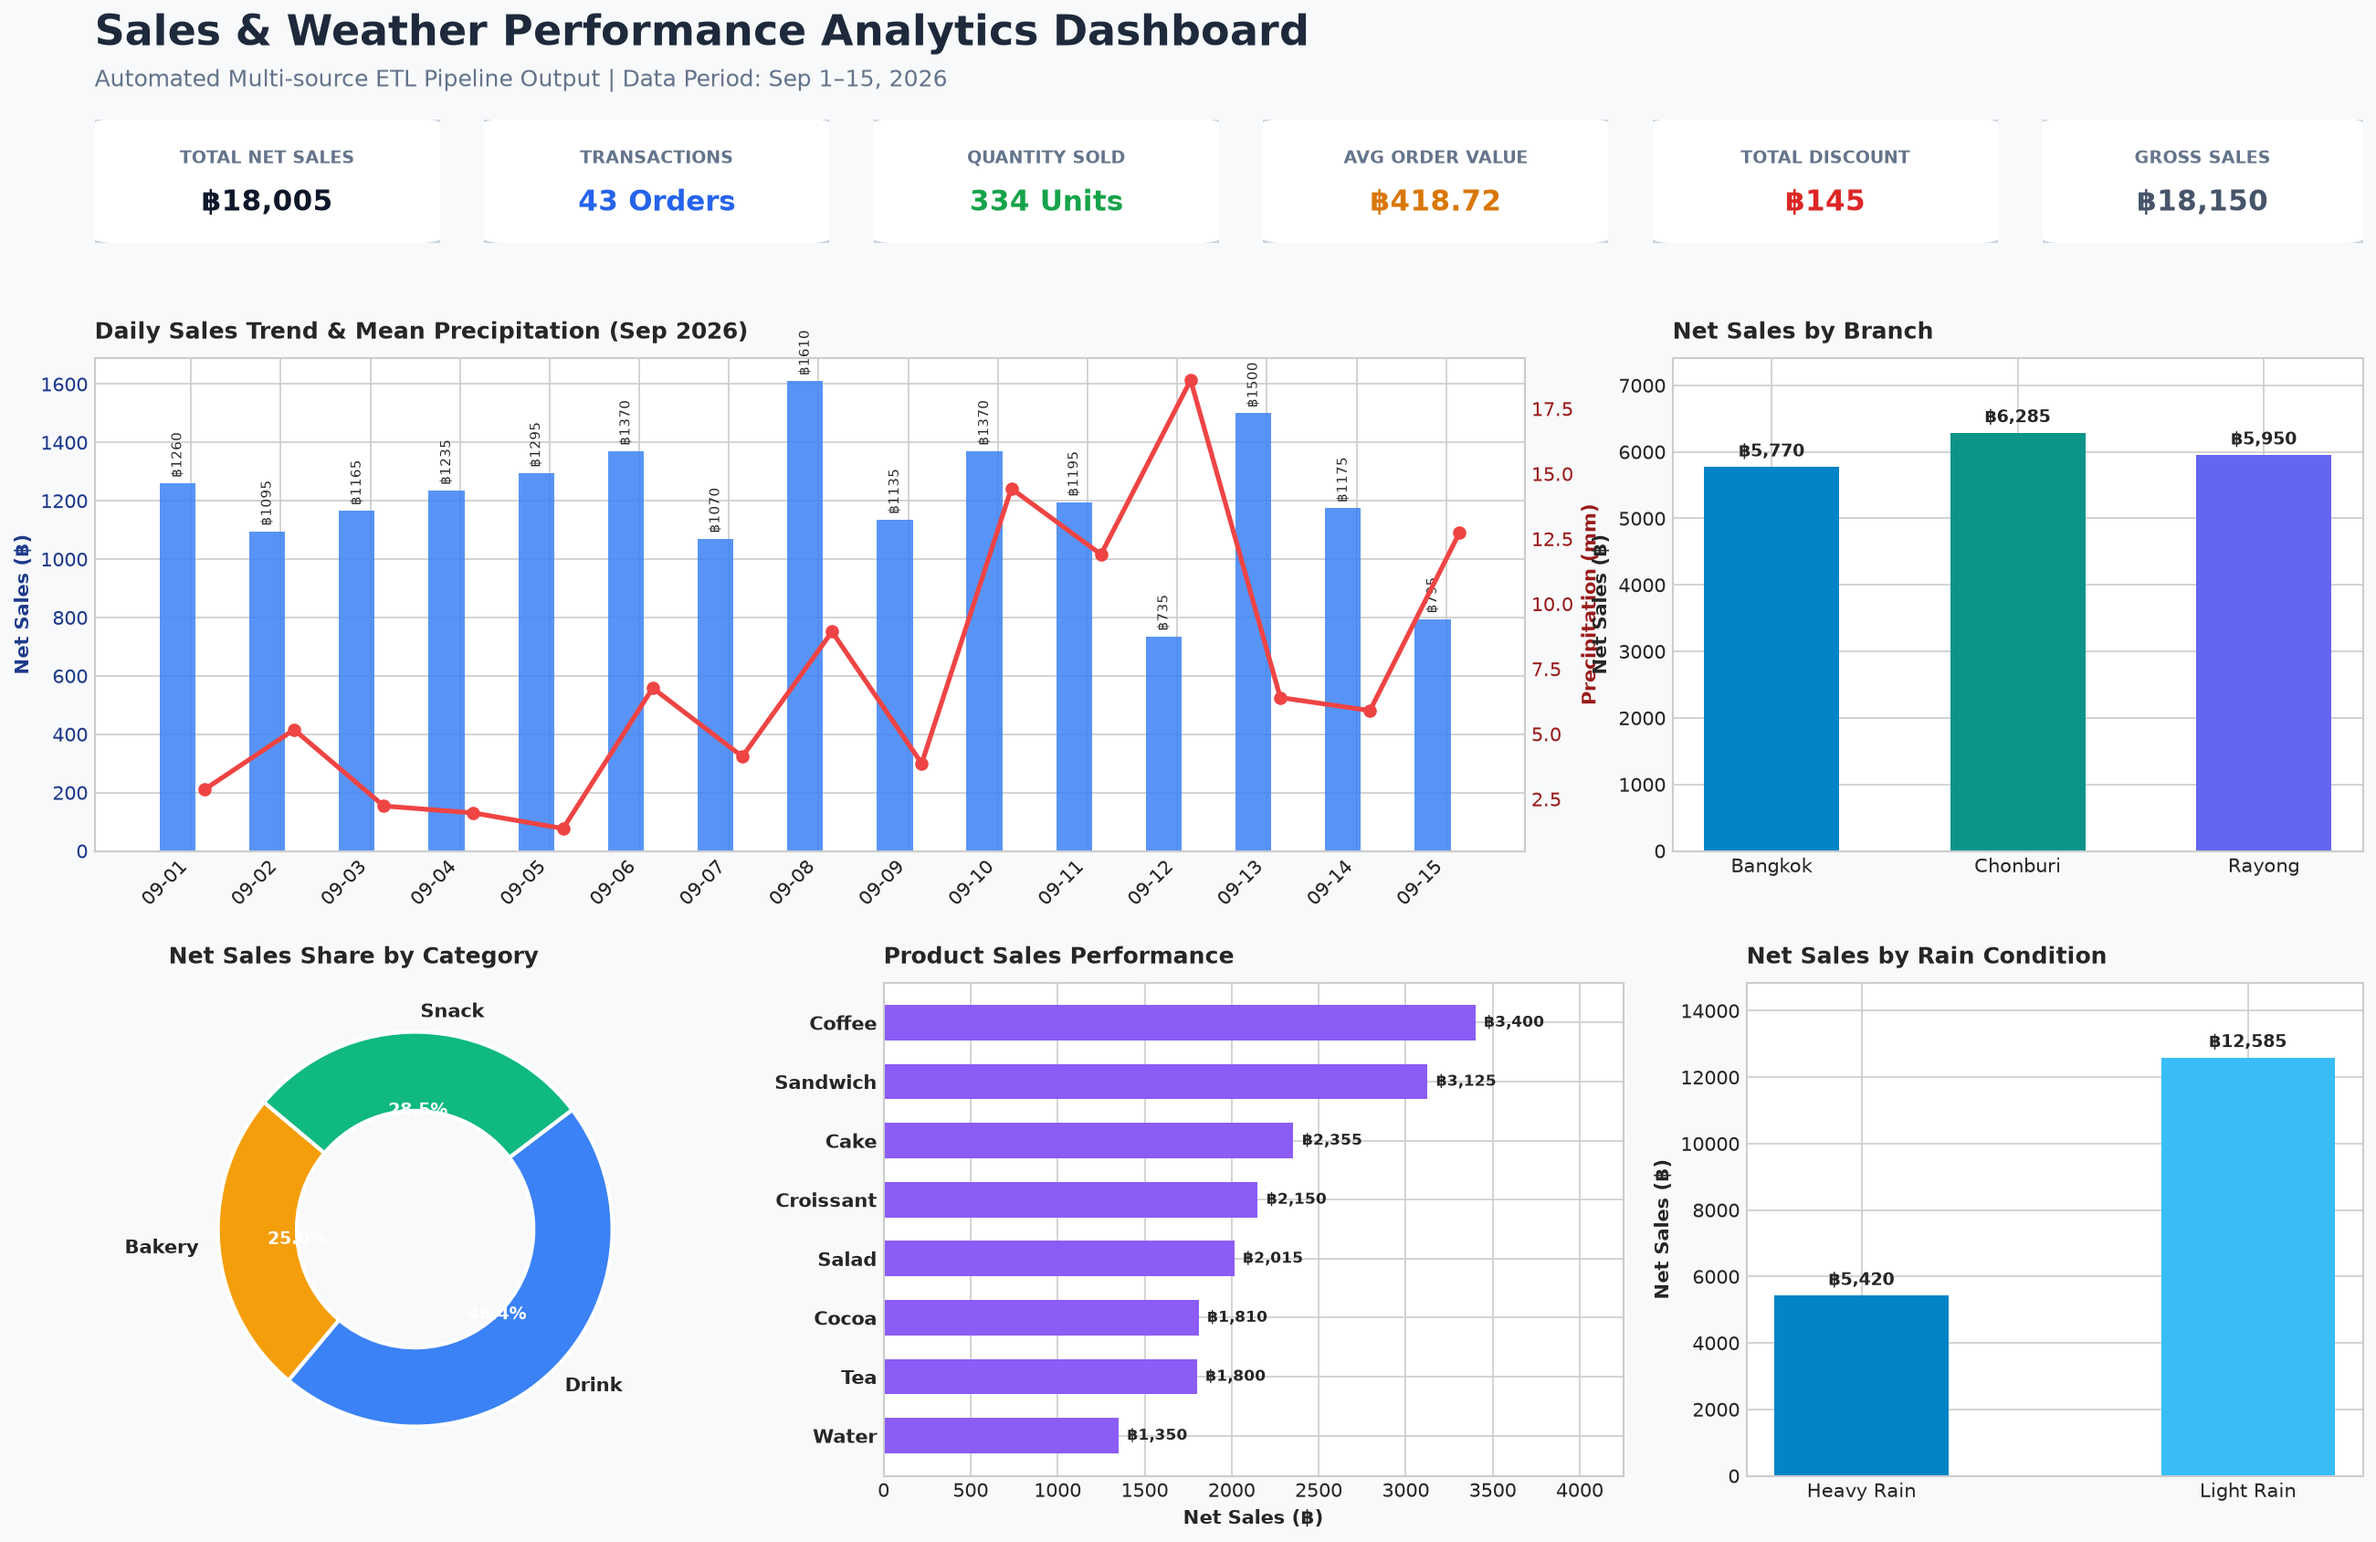
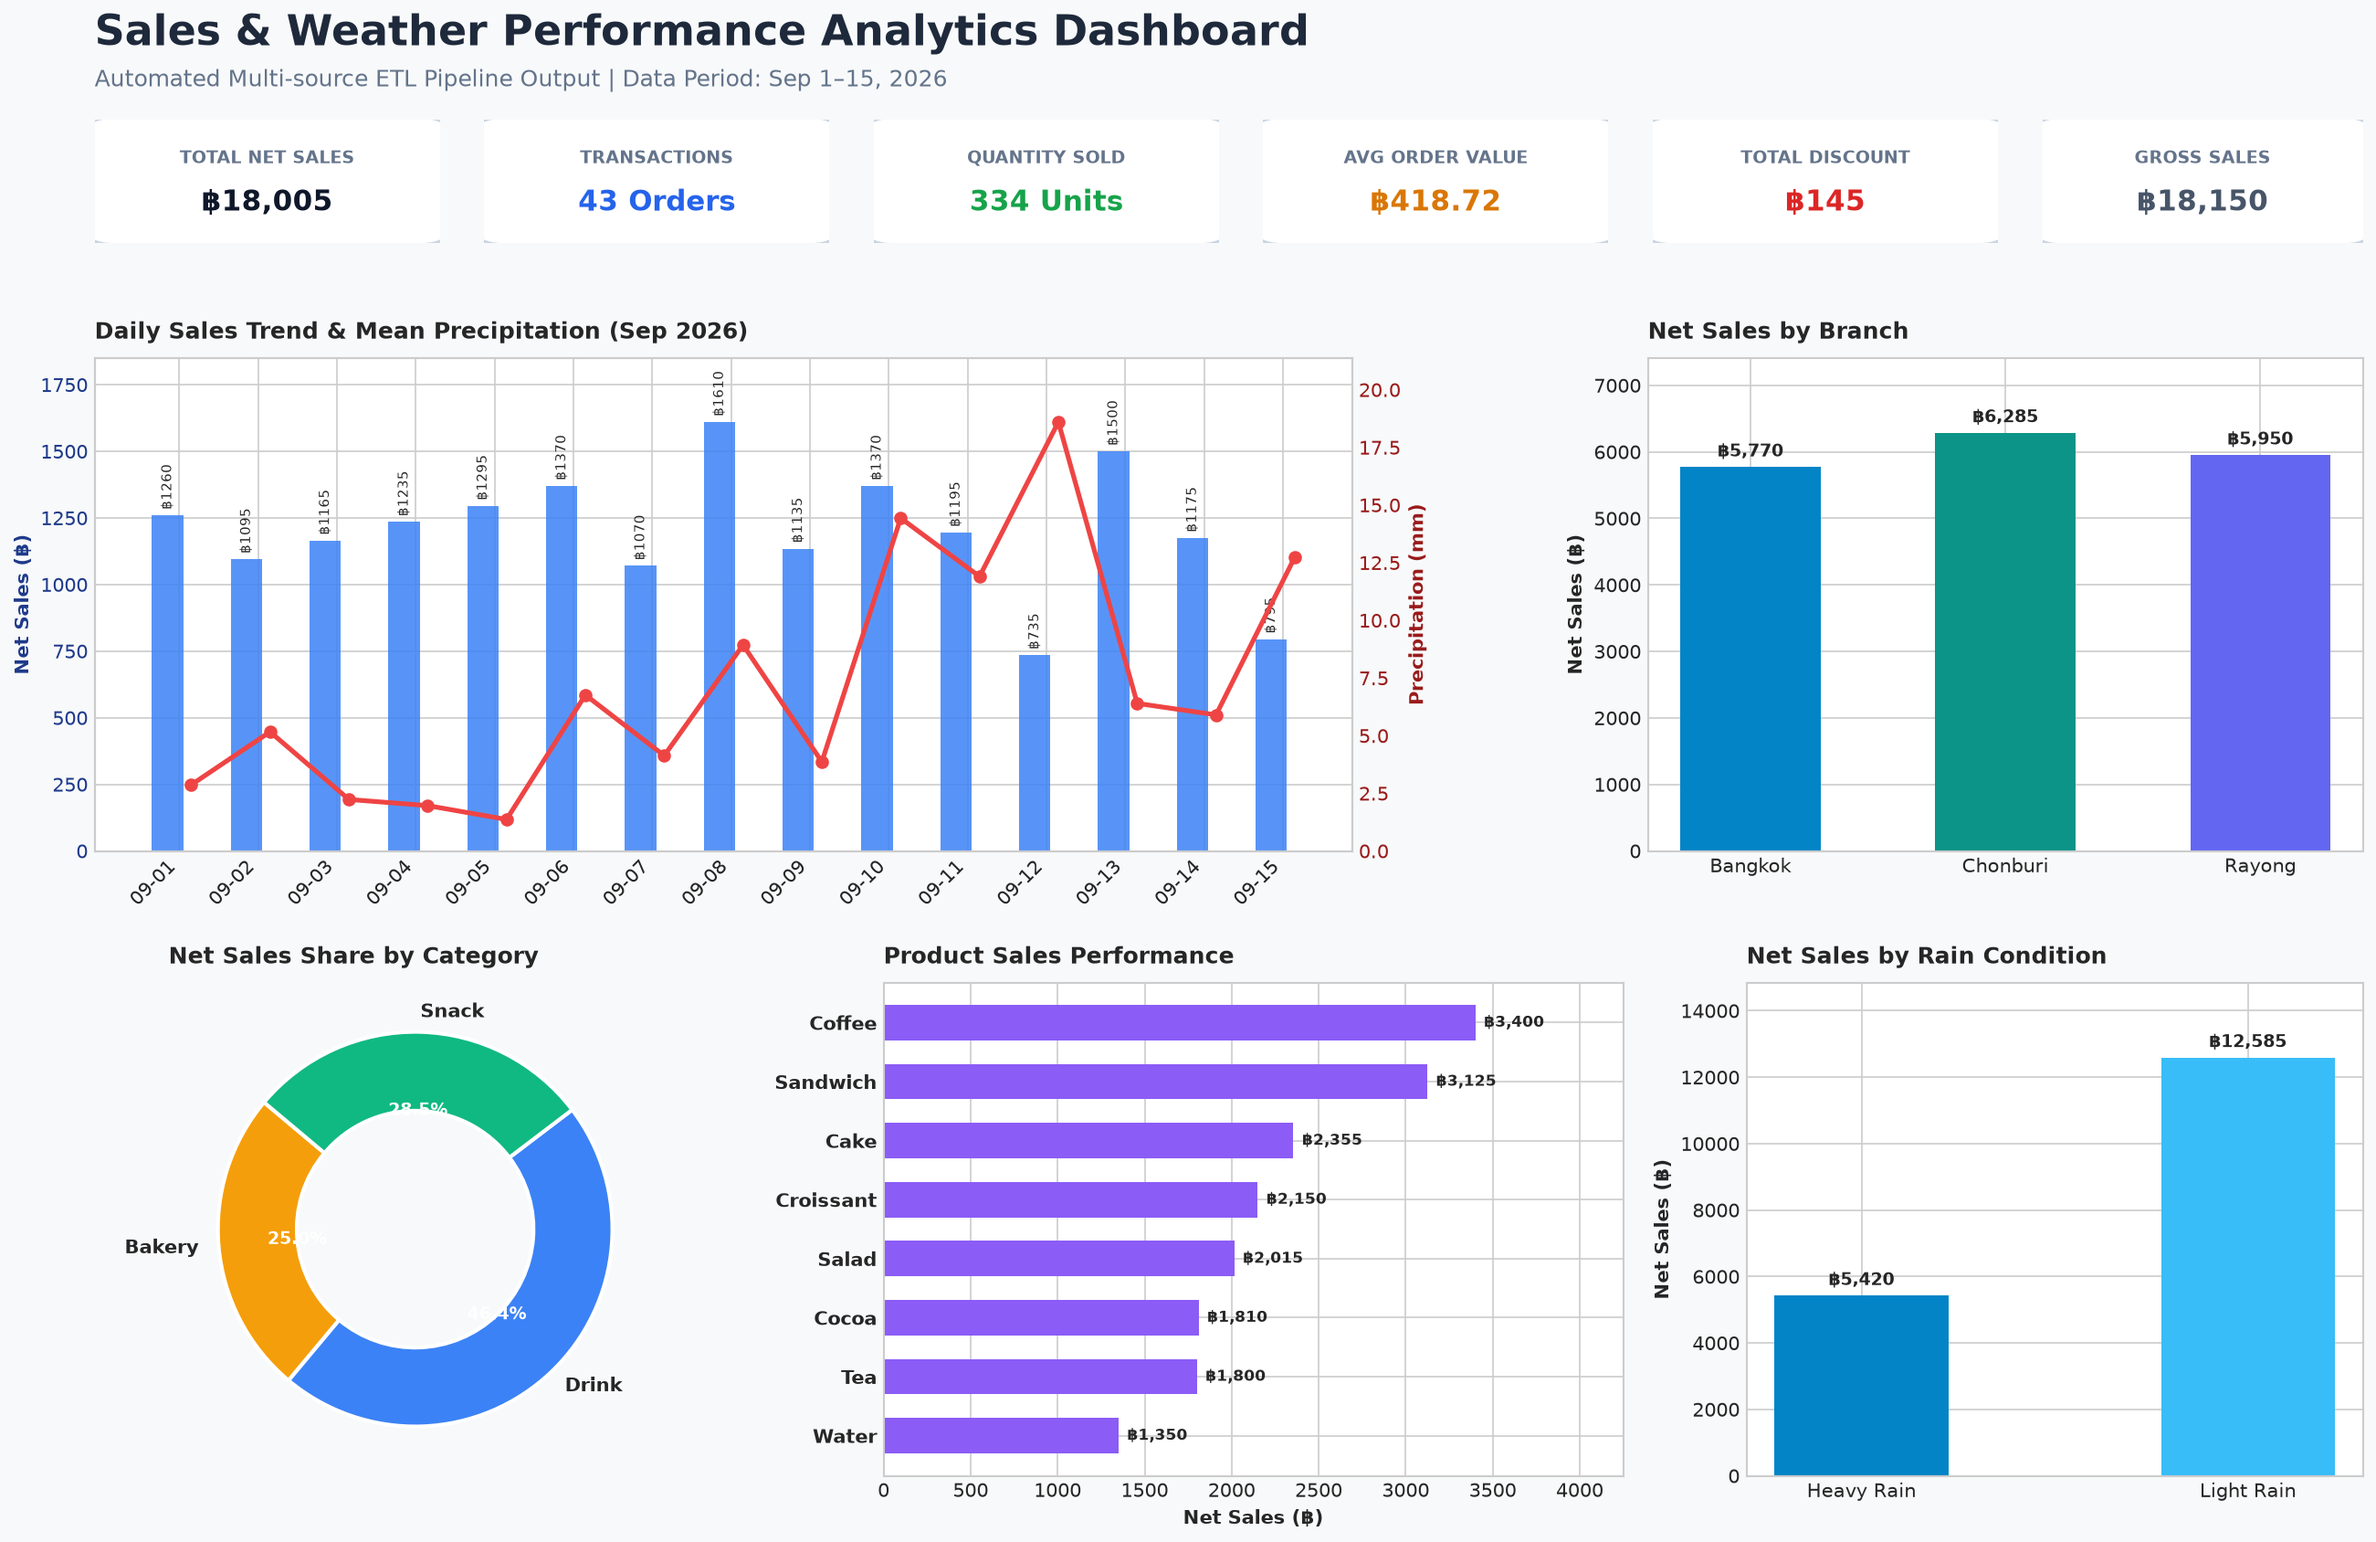
modified png

diff --git a/Lab3/create_dashboard.py b/Lab3/create_dashboard.py
@@ -83,7 +83,7 @@ draw_kpi_card(fig.add_axes([0.672, 0.83, 0.14, 0.075]), "TOTAL DISCOUNT", f"฿{
 draw_kpi_card(fig.add_axes([0.83, 0.83, 0.13, 0.075]), "GROSS SALES", f"฿{total_gross_sales:,.0f}", '#475569')
 
 # --- Chart 1: Daily Trend - Sales vs Rain (Combo Chart) ---
-ax1 = fig.add_axes([0.04, 0.46, 0.58, 0.30])
+ax1 = fig.add_axes([0.04, 0.46, 0.51, 0.30])
 date_labels = [d[5:] for d in date_summary['Date']]
 x = np.arange(len(date_labels))
 
@@ -93,11 +93,13 @@ ax1.tick_params(axis='y', labelcolor='#1e3a8a')
 ax1.set_xticks(x)
 ax1.set_xticklabels(date_labels, rotation=45, ha='right')
 ax1.set_title('Daily Sales Trend & Mean Precipitation (Sep 2026)', fontsize=12, fontweight='bold', loc='left', pad=10)
+ax1.set_ylim(0, max(date_summary['Net_Sales']) * 1.15)
 
 ax1_twin = ax1.twinx()
 line = ax1_twin.plot(x + 0.15, date_summary['Precipitation'], color='#ef4444', marker='o', linewidth=2.5, label='Precipitation (mm)')
 ax1_twin.set_ylabel('Precipitation (mm)', color='#991b1b', fontweight='bold')
 ax1_twin.tick_params(axis='y', labelcolor='#991b1b')
+ax1_twin.set_ylim(0, max(date_summary['Precipitation']) * 1.15)
 ax1_twin.grid(False)
 
 for bar in bars:
@@ -110,7 +112,7 @@ for bar in bars:
 
 
 # --- Chart 2: Net Sales by Branch (Bar Chart) ---
-ax2 = fig.add_axes([0.68, 0.46, 0.28, 0.30])
+ax2 = fig.add_axes([0.67, 0.46, 0.29, 0.30])
 colors_branch = ['#0284c7', '#0d9488', '#6366f1']
 bars_b = ax2.bar(branch_summary['Branch_Name'], branch_summary['Net_Sales'], color=colors_branch, width=0.55)
 ax2.set_title('Net Sales by Branch', fontsize=12, fontweight='bold', loc='left', pad=10)
